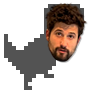
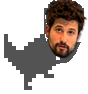
Raise Dino Dor face

Changed region(s): [[0.5, 0.0, 1.0, 0.6809]]

diff --git a/games/dino/index.html b/games/dino/index.html
@@ -165,7 +165,7 @@
               <div class="lane-track" data-track="chen">
                 <img src="assets/dinorun/ground.png" alt="" class="lane-ground lane-ground-a" data-ground="chen">
                 <img src="assets/dinorun/ground.png" alt="" class="lane-ground lane-ground-b" data-ground="chen">
-                <img src="assets/dinorun/dino-stationary.png?v=2026-06-26-dor-face-hair-1" alt="" class="lane-dino" data-dino="chen">
+                <img src="assets/dinorun/dino-stationary.png?v=2026-06-28-dino-dor-face-up20-1" alt="" class="lane-dino" data-dino="chen">
               </div>
             </div>
 
@@ -180,7 +180,7 @@
               <div class="lane-track" data-track="brazim">
                 <img src="assets/dinorun/ground.png" alt="" class="lane-ground lane-ground-a" data-ground="brazim">
                 <img src="assets/dinorun/ground.png" alt="" class="lane-ground lane-ground-b" data-ground="brazim">
-                <img src="assets/dinorun/dino-stationary.png?v=2026-06-26-dor-face-hair-1" alt="" class="lane-dino" data-dino="brazim">
+                <img src="assets/dinorun/dino-stationary.png?v=2026-06-28-dino-dor-face-up20-1" alt="" class="lane-dino" data-dino="brazim">
               </div>
             </div>
           </div>
@@ -202,6 +202,6 @@
       </div>
     </main>
 
-    <script type="module" src="game.js?v=2026-06-27-dino-jackson-schedule-1"></script>
+    <script type="module" src="game.js?v=2026-06-28-dino-dor-face-up20-1"></script>
   </body>
 </html>

diff --git a/games/dino/game.js b/games/dino/game.js
@@ -6,7 +6,7 @@ const CHOOSE_FIGHTER_SOUND_SRC = "assets/sounds/choose-your-fighter.mp3?v=2026-0
 const SOUND_ASSET_VERSION = "2026-06-26-meser-magami-gabo-swap-1";
 const BACKGROUND_MUSIC_VERSION = "2026-06-26-dino-bg-music-1";
 const GAMEPLAY_SOUND_VERSION = "2026-06-27-dino-gameplay-sounds-1";
-const DINO_SPRITE_VERSION = "2026-06-26-dor-face-hair-1";
+const DINO_SPRITE_VERSION = "2026-06-28-dino-dor-face-up20-1";
 const JACKSON_OBSTACLE_VERSION = "2026-06-27-dino-obstacle-perf-1";
 const JACKSON_OBSTACLE_SRC = `assets/images/obstacles/jackson-face-runtime.png?v=${JACKSON_OBSTACLE_VERSION}`;
 const GAMEPLAY_IMAGE_PRELOADS = [

diff --git a/games/dino/README.md b/games/dino/README.md
@@ -90,7 +90,7 @@ Implemented now:
 - Refresh/reopen during the match does not return to the home screen.
 - If refresh happens during live play, the current round restarts from its countdown checkpoint while score and completed rounds stay saved.
 - Runner mechanics use local vendor files copied from `PrashanthaTP/dinorun`.
-- The active Dino sprites use the user-provided mirrored Dor face composited onto `dino-stationary.png`, `dino-run-0.png`, `dino-run-1.png`, and `dino-lose.png`. The face is enlarged, raised, and adjusted with top margin so the hair stays visible. The mirrored source face is stored at `assets/images/players/dor_face_mirrored.png`; original pre-face Dino sprites are backed up under `backups/dino-dor-face-2026-06-26/`, the previous face-composite pass is backed up under `backups/dino-dor-face-before-raise20-2026-06-26/`, and the clipped raised pass is backed up under `backups/dino-dor-face-before-hair-fix-2026-06-26/`.
+- The active Dino sprites use the user-provided mirrored Dor face composited onto `dino-stationary.png`, `dino-run-0.png`, `dino-run-1.png`, and `dino-lose.png`. The face is enlarged, raised, and adjusted with top margin so the hair stays visible. The latest sprite pass raises the composited face about 4 source pixels, which renders as roughly 20px higher in the scaled game lane. The mirrored source face is stored at `assets/images/players/dor_face_mirrored.png`; original pre-face Dino sprites are backed up under `backups/dino-dor-face-2026-06-26/`, the previous face-composite pass is backed up under `backups/dino-dor-face-before-raise20-2026-06-26/`, and the clipped raised pass is backed up under `backups/dino-dor-face-before-hair-fix-2026-06-26/`.
 
 Source / license:
 
